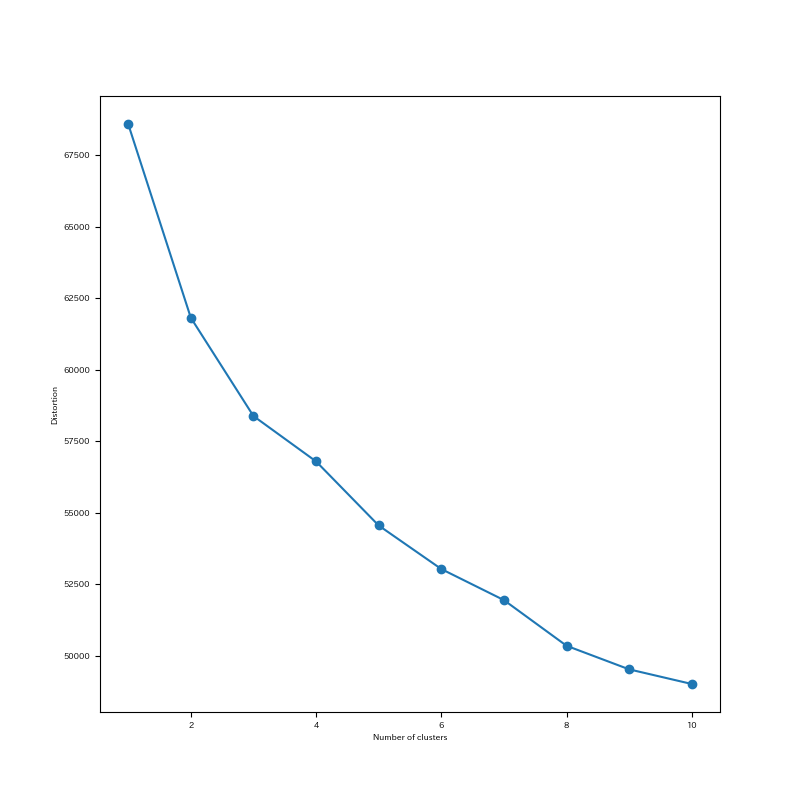
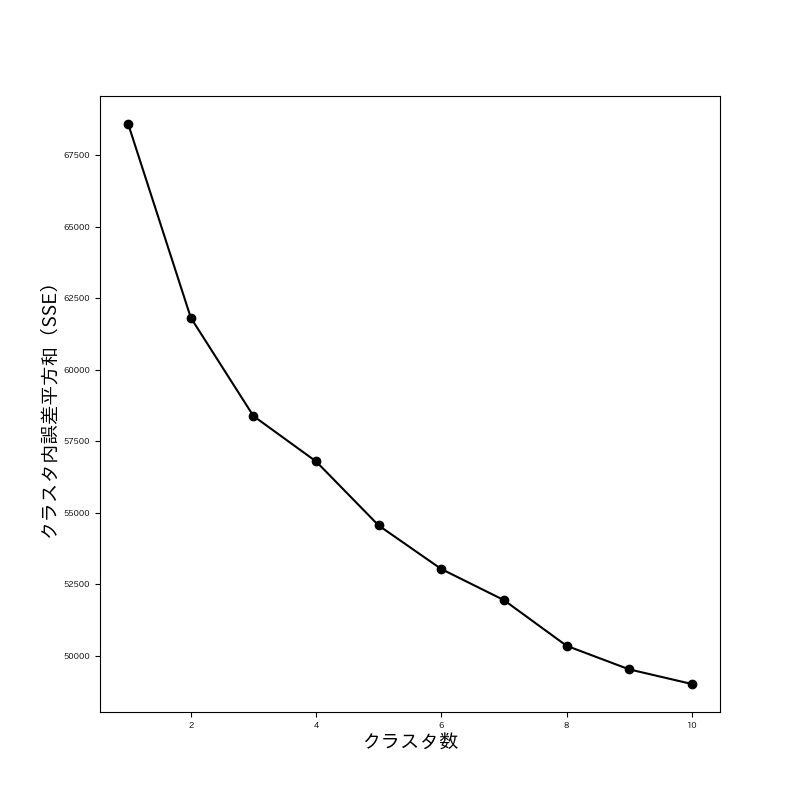
エルボー法説明用サンプル

diff --git a/dative_subject_word2vec.py b/dative_subject_word2vec.py
@@ -31,20 +31,27 @@ import matplotlib
 import matplotlib.pyplot as plot
 from sklearn.decomposition import PCA
 from sklearn.cluster import KMeans
-import json
 
 plot.rcParams["figure.figsize"] = [8, 8]
 plot.rcParams['font.size'] = 6
 
 distortions = []
 
-# 1~10クラスタまでのSSE値を求めて図示（エルボー法）
+# 1~10クラスタまでのSSE値を求めて図示（エルボー図）
 for i  in range(1,11):
     km = KMeans(n_clusters=i, init='k-means++', n_init=10, max_iter=300, random_state=0)
     km.fit(data)
     distortions.append(km.inertia_)
 
-# k-meansモデルを用いてクラスタリング
+plot.plot(range(1,11), distortions, marker='o', color='0.0')
+plot.xlabel('クラスタ数', size=14)
+plot.ylabel('クラスタ内誤差平方和（SSE）', size=14)
+plot.savefig('sse_plot.png')
+
+# Clear the current figure.
+plot.clf()
+
+# k-meansモデルを用いてクラスタリング、クラスター数はエルボー図から3に決定した
 model = KMeans(n_clusters=3, init='k-means++', n_init=10, max_iter=300, random_state=0)
 model.fit(data)
 # 変数名被り防止
@@ -67,14 +74,6 @@ for word, val in word_dic.items():
 word_df = pd.DataFrame(word_list, columns=['word', 'num', 'dsc_num', 'skip', 'pca_vec', 'cluster'])
 print(word_df)
 word_df.to_csv('word_df.csv', sep=',')
-
-plot.plot(range(1,11),distortions,marker='o')
-plot.xlabel('Number of clusters')
-plot.ylabel('Distortion')
-plot.savefig('sse_plot.png')
-
-# Clear the current figure.
-plot.clf()
 
 markers = ['.', '+', 'x']
 i = 0

diff --git a/test_sse_plot.py b/test_sse_plot.py
@@ -1,0 +1,52 @@
+import random
+import math
+import matplotlib.pyplot as plot
+from sklearn.cluster import KMeans
+
+plot.rcParams["figure.figsize"] = [8, 8]
+plot.rcParams['font.size'] = 6
+
+data = []
+# (x-2)^2 + (y-2)^2 <= 1
+for i in range(0,1000):
+	x = random.uniform(-1, 1)
+	y = math.sqrt(1 - x**2) * random.uniform(-1, 1) + 2
+	data.append([x + 2, y])
+
+# (x-3)^2 + (y-4)^2 <= 1
+for i in range(0,1000):
+	x = random.uniform(-1, 1)
+	y = math.sqrt(1 - x**2) * random.uniform(-1, 1) + 5
+	data.append([x + 3, y])
+
+# (x-4)^2 + (y-3)^2 <= 1
+for i in range(0,1000):
+	x = random.uniform(-1, 1)
+	y = math.sqrt(1 - x**2) * random.uniform(-1, 1) + 3
+	data.append([x + 5, y])
+
+for i in range(0, 3000):
+	x = data[i][0]
+	y = data[i][1]
+	plot.plot(x, y, ms=5.0, marker='o', color='0.0')
+
+plot.savefig('test_sse_plot_data.png')
+
+# Clear the current figure.
+plot.clf()
+
+distortions = []
+
+# 1~10クラスタまでのSSE値を求めて図示（エルボー図）
+for i  in range(1,11):
+    km = KMeans(n_clusters=i, init='k-means++', n_init=10, max_iter=300, random_state=0)
+    km.fit(data)
+    distortions.append(km.inertia_)
+
+plot.plot(range(1,11), distortions, marker='o', color='0.0')
+plot.xlabel('クラスタ数', size=14)
+plot.ylabel('クラスタ内誤差平方和（SSE）', size=14)
+plot.savefig('test_sse_plot.png')
+
+# Clear the current figure.
+plot.clf()
